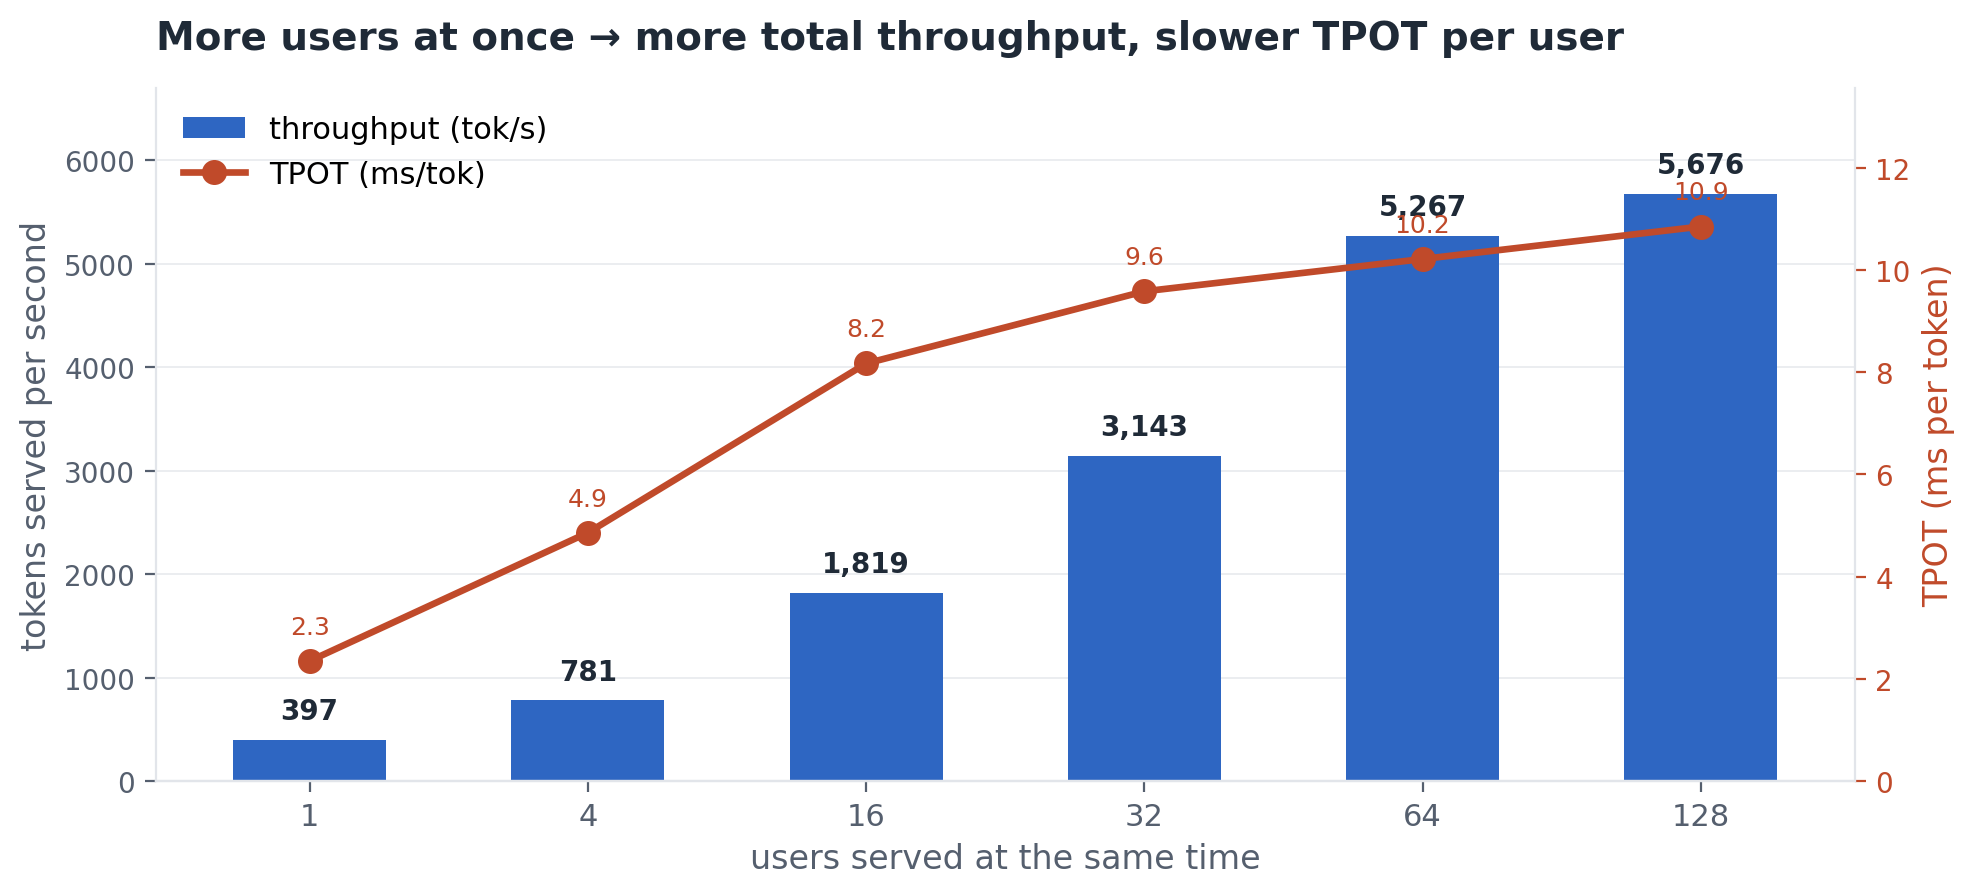
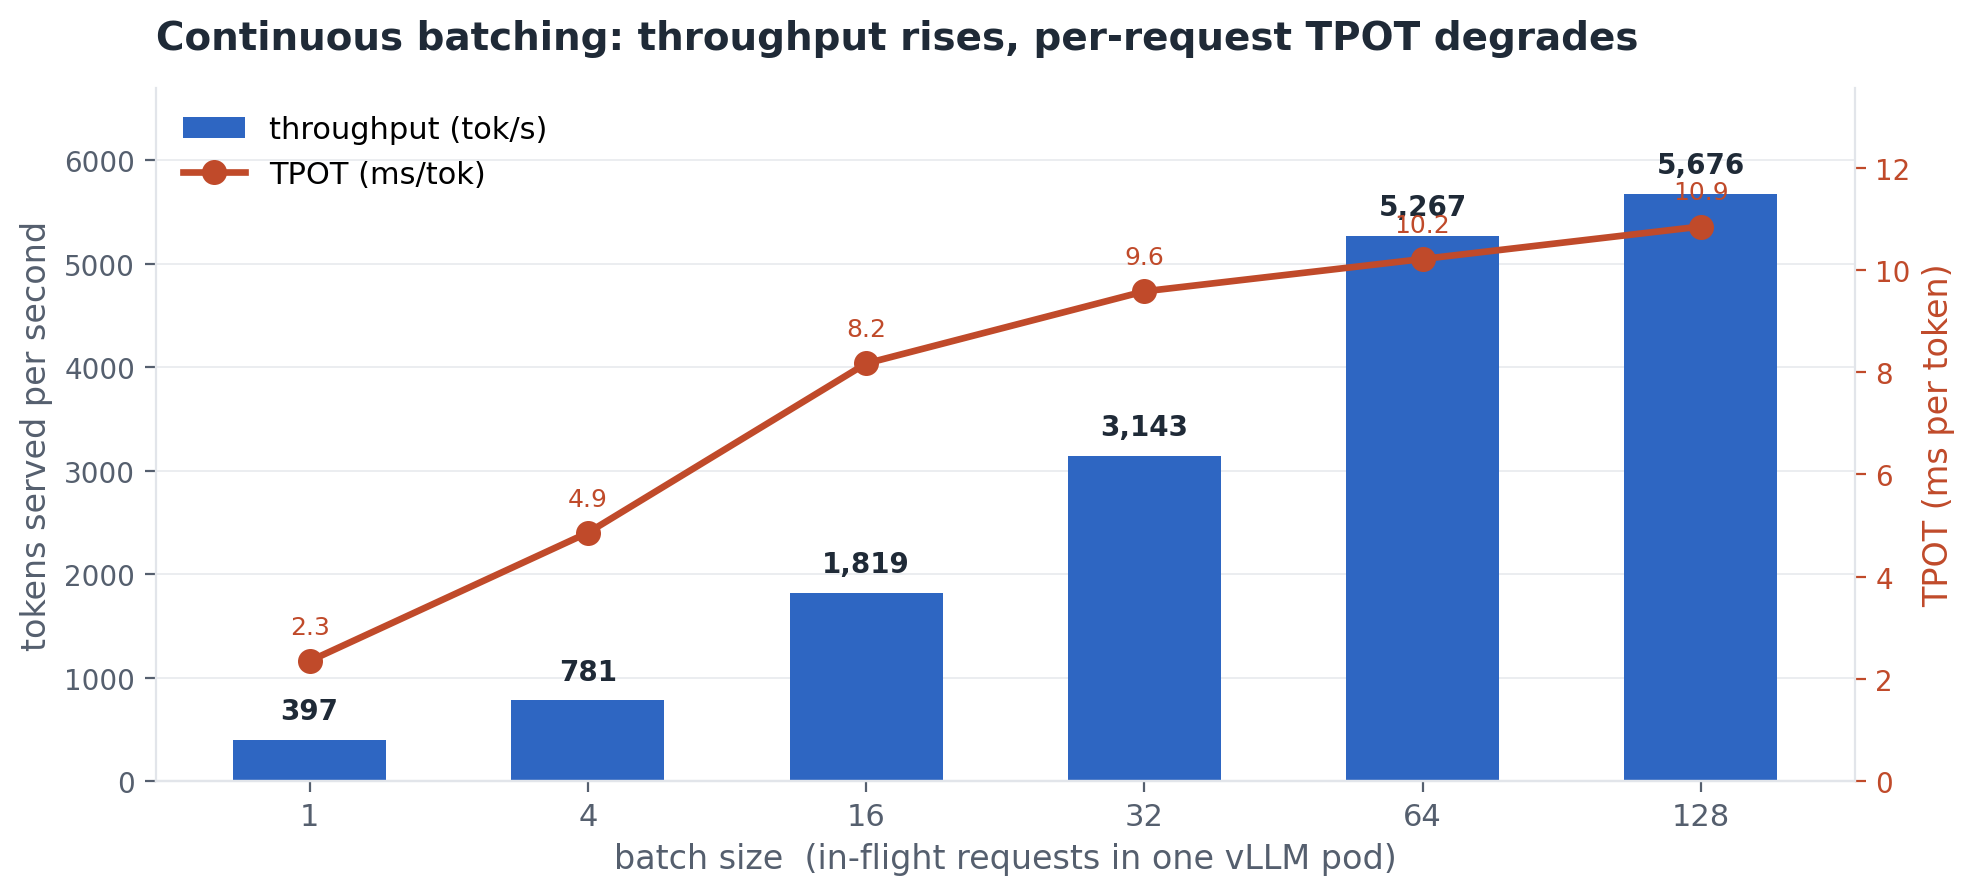
deck changes

Changed region(s): [[0.0618, 0.0, 0.8343, 0.0603], [0.309, 0.9352, 0.7107, 0.9955]]

diff --git a/scripts/plots/appendix.py b/scripts/plots/appendix.py
@@ -168,6 +168,52 @@ def ttft_vs_length() -> Path:
     return out
 
 
+def tpot_vs_length() -> Path:
+    bf = numbers.derive_tpot(numbers.latency_grid("baseline"))
+    fp = numbers.derive_tpot(numbers.latency_grid("fp8"))
+    tp = numbers.derive_tpot(numbers.latency_grid("baseline_tp2"))
+
+    Ls = sorted(bf.keys())
+
+    def tpot(grid, L):
+        return grid.get(L, {}).get("tpot_mean_ms")
+
+    bf_y = [tpot(bf, L) for L in Ls]
+    fp_y = [tpot(fp, L) for L in Ls]
+    tp_y = [tpot(tp, L) for L in Ls]
+
+    fig, ax = plt.subplots(figsize=(10, 4.6))
+    fig.patch.set_facecolor("white")
+
+    ax.plot(Ls, bf_y, "-o", color=ACCENT, linewidth=2.4, markersize=8,
+            label="default settings (one GPU)")
+    if any(v is not None for v in fp_y):
+        ax.plot(Ls, fp_y, "-s", color=GREEN, linewidth=2.4, markersize=8,
+                label="FP8 (one GPU)")
+    if any(v is not None for v in tp_y):
+        ax.plot(Ls, tp_y, "-^", color=WARN, linewidth=2.4, markersize=8,
+                label="both GPUs together (TP=2)")
+
+    for L, y in zip(Ls, bf_y):
+        ax.text(L, y + 0.10, f"{y:.2f}", ha="center", va="bottom",
+                fontsize=10, color=ACCENT)
+
+    ax.set_xticks(Ls)
+    ax.set_xticklabels([str(L) for L in Ls], fontsize=11, color=INK)
+    ax.set_ylim(0, max(bf_y) * 1.30)
+    ax.legend(loc="lower right", frameon=False, fontsize=11)
+    _style(ax,
+           ylabel="TPOT mean (ms per token)",
+           xlabel="input length (tokens)",
+           title="TPOT by approach — single user (batch=1)")
+
+    fig.tight_layout()
+    out = OUT / "appendix_tpot_vs_length.png"
+    fig.savefig(out, dpi=200, bbox_inches="tight", facecolor="white")
+    plt.close(fig)
+    return out
+
+
 # ------------------------------------------------------------
 # Appendix 3: Batching Pareto
 # ------------------------------------------------------------
@@ -198,8 +244,8 @@ def batching_pareto() -> Path:
     ax1.set_xticklabels([str(B) for B in Bs], fontsize=11, color=INK)
     _style(ax1,
            ylabel="tokens served per second",
-           xlabel="users served at the same time",
-           title="More users at once → more total throughput, slower TPOT per user")
+           xlabel="batch size  (in-flight requests in one vLLM pod)",
+           title="Continuous batching: throughput rises, per-request TPOT degrades")
     ax1.set_ylim(0, max(tok) * 1.18)
 
     # TPOT line on right axis
@@ -330,6 +376,7 @@ def main() -> None:
     paths = [
         fp8_accuracy(),
         ttft_vs_length(),
+        tpot_vs_length(),
         batching_pareto(),
         prefix_caching(),
         flop_math(),

diff --git a/scripts/plots/diagrams.py b/scripts/plots/diagrams.py
@@ -231,7 +231,7 @@ def prefill_kernel_breakdown() -> Path:
     return out
 
 
-def repo_qr(url: str = "https://github.com/harishvs/olmoe-kernel") -> Path:
+def repo_qr(url: str = "https://github.com/harishvs/moe-inference-optimize") -> Path:
     """Generate a QR code pointing at the repo, for the Q&A slide."""
     import qrcode
     qr = qrcode.QRCode(